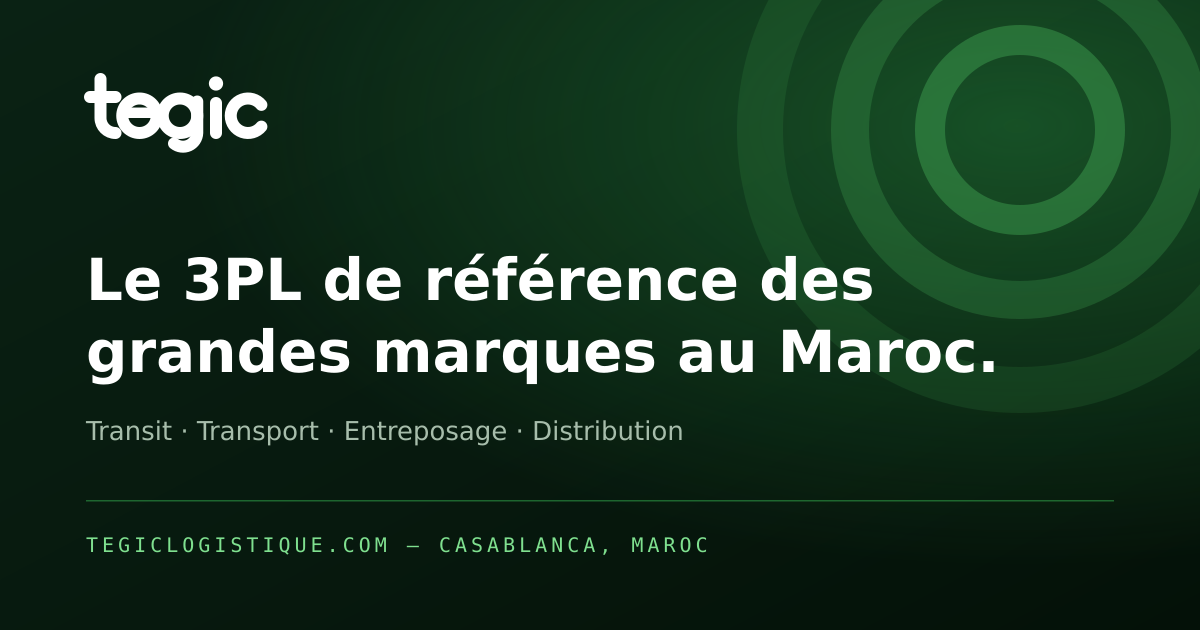
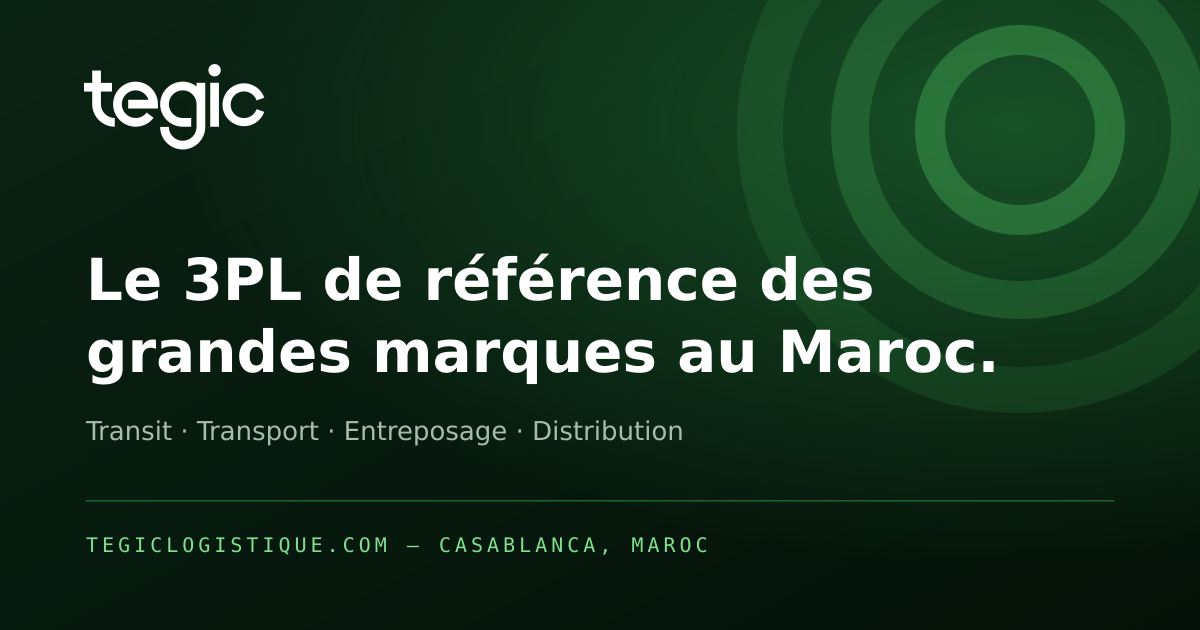
Wordmark officiel Tegic partout (tracés vectoriels de la charte)
La recréation approximative est remplacée par les lettres exactes du
logo, extraites du PDF de charte (pastille tegic) :

- Logo.tsx : TegicWordmark reconstruit sur les 6 tracés officiels,
  remplissage currentColor (blanc sur sombre, encre sur clair)
- Filigrane géant du footer : mêmes tracés officiels
- Images Open Graph régénérées avec le wordmark officiel
- Header, footer, admin : mis à jour automatiquement via le composant

Claude-Session: https://claude.ai/code/session_01WedrAyMvV1yYKE62TZyWZr

Changed region(s): [[0.0617, 0.0905, 0.2467, 0.2413]]

diff --git a/src/components/Logo.tsx b/src/components/Logo.tsx
@@ -1,9 +1,7 @@
 /**
- * Wordmark "tegic" — recréation vectorielle fidèle du logo fourni
- * (bas de casse géométrique, terminaisons rondes) pour un rendu net à
- * toutes les tailles. Pour utiliser le fichier officiel de la charte,
- * déposer `public/brand/tegic-logo-white.svg` et remplacer le <svg>
- * ci-dessous par une balise <img> — un seul composant à modifier.
+ * Wordmark « tegic » — tracés vectoriels OFFICIELS, extraits de la
+ * charte (TEGIC_PICTO.pdf). Remplissage via currentColor : la couleur
+ * suit le contexte (blanc sur sombre, encre sur clair).
  */
 export function TegicWordmark({
   height = 30,
@@ -14,30 +12,19 @@ export function TegicWordmark({
 }) {
   return (
     <svg
-      viewBox="0 0 250 112"
+      viewBox="221.5 555.7 151.2 72.3"
       height={height}
       className={className}
       role="img"
       aria-label="tegic"
-      fill="none"
-      stroke="currentColor"
-      strokeWidth="16"
-      strokeLinecap="round"
+      fill="currentColor"
     >
-      {/* t */}
-      <path d="M22 12 V64 a20 20 0 0 0 20 20" />
-      <path d="M8 36 H42" />
-      {/* e */}
-      <circle cx="74" cy="61" r="23" />
-      <path d="M52 57 H95" strokeWidth="14" />
-      {/* g */}
-      <circle cx="128" cy="61" r="23" />
-      <path d="M151 42 V84 a19 19 0 0 1 -31 14" />
-      {/* i */}
-      <path d="M176 44 V84" />
-      <circle cx="176" cy="18" r="9.5" fill="currentColor" stroke="none" />
-      {/* c */}
-      <path d="M236.5 46.5 a23 23 0 1 0 0 29" />
+      <path d="M 236.175781 589.675781 L 236.175781 579.164062 L 245.371094 579.164062 L 245.371094 571.914062 L 236.175781 571.914062 L 236.175781 561.671875 L 228.925781 561.671875 L 228.925781 571.914062 L 222.082031 571.914062 L 222.082031 579.164062 L 228.925781 579.164062 L 228.925781 589.675781 C 228.925781 600.039062 237.355469 608.464844 247.714844 608.464844 L 247.714844 601.21875 C 241.351562 601.21875 236.175781 596.039062 236.175781 589.675781" />
+      <path d="M 258.894531 593.304688 L 283.683594 593.304688 L 283.683594 589.679688 C 283.683594 579.398438 275.378906 571.023438 265.121094 570.898438 L 265.121094 570.890625 C 265.082031 570.890625 265.046875 570.894531 265.007812 570.894531 C 264.96875 570.894531 264.933594 570.890625 264.894531 570.890625 L 264.894531 570.898438 C 254.636719 571.023438 246.332031 579.398438 246.332031 589.679688 C 246.332031 600.042969 254.757812 608.46875 265.121094 608.46875 C 271.027344 608.46875 276.472656 605.777344 280.058594 601.078125 L 274.296875 596.679688 C 272.09375 599.566406 268.746094 601.222656 265.121094 601.222656 C 258.757812 601.222656 253.578125 596.042969 253.578125 589.679688 L 253.582031 589.679688 C 253.582031 583.351562 258.703125 578.199219 265.019531 578.144531 C 270.0625 578.199219 274.339844 581.503906 275.851562 586.058594 L 258.894531 586.058594 Z M 258.894531 593.304688" />
+      <path d="M 323.121094 571.851562 L 323.121094 608.648438 C 323.121094 619.007812 314.691406 627.4375 304.332031 627.4375 C 293.972656 627.4375 285.542969 619.007812 285.542969 608.648438 L 292.789062 608.648438 C 292.789062 615.011719 297.964844 620.191406 304.332031 620.191406 C 310.695312 620.191406 315.871094 615.011719 315.871094 608.648438 L 315.871094 589.683594 C 315.871094 583.320312 310.695312 578.140625 304.332031 578.140625 C 297.964844 578.140625 292.789062 583.320312 292.789062 589.683594 C 292.789062 596.042969 297.964844 601.21875 304.328125 601.21875 L 311.402344 601.21875 L 311.402344 608.472656 L 304.328125 608.472656 C 293.96875 608.472656 285.542969 600.042969 285.542969 589.683594 C 285.542969 579.320312 293.972656 570.894531 304.332031 570.894531 C 308.675781 570.894531 312.683594 572.378906 315.871094 574.867188 L 315.871094 571.851562 Z M 323.121094 571.851562" />
+      <path d="M 334.539062 608.488281 L 327.289062 608.488281 L 327.289062 571.851562 L 334.539062 571.851562 Z M 334.539062 608.488281" />
+      <path d="M 355.410156 608.042969 C 348.082031 608.042969 341.191406 603.5 338.574219 596.214844 C 336.960938 591.722656 337.191406 586.871094 339.226562 582.550781 C 341.261719 578.234375 344.855469 574.964844 349.347656 573.351562 C 353.839844 571.734375 358.695312 571.96875 363.011719 574.003906 C 367.332031 576.039062 370.597656 579.632812 372.214844 584.125 L 372.273438 584.292969 L 365.914062 586.574219 L 365.855469 586.410156 C 364.851562 583.617188 362.820312 581.378906 360.132812 580.113281 C 357.445312 578.847656 354.429688 578.703125 351.632812 579.707031 C 345.867188 581.78125 342.859375 588.160156 344.933594 593.929688 C 345.9375 596.726562 347.96875 598.960938 350.65625 600.226562 C 353.34375 601.492188 356.359375 601.636719 359.15625 600.632812 C 362.320312 599.496094 364.777344 597.015625 365.890625 593.835938 L 372.265625 596.070312 C 370.476562 601.179688 366.53125 605.160156 361.441406 606.988281 C 359.449219 607.707031 357.414062 608.042969 355.410156 608.042969" />
+      <path d="M 336.074219 561.375 C 336.074219 564.226562 333.765625 566.539062 330.914062 566.539062 C 328.0625 566.539062 325.75 564.226562 325.75 561.375 C 325.75 558.523438 328.0625 556.214844 330.914062 556.214844 C 333.765625 556.214844 336.074219 558.523438 336.074219 561.375" />
     </svg>
   );
 }
@@ -68,3 +55,7 @@ export function LogoLockup({
     </span>
   );
 }
+
+/** Tracés bruts du wordmark (usage filigrane / OG). */
+export const TEGIC_WORDMARK_PATHS = ["M 236.175781 589.675781 L 236.175781 579.164062 L 245.371094 579.164062 L 245.371094 571.914062 L 236.175781 571.914062 L 236.175781 561.671875 L 228.925781 561.671875 L 228.925781 571.914062 L 222.082031 571.914062 L 222.082031 579.164062 L 228.925781 579.164062 L 228.925781 589.675781 C 228.925781 600.039062 237.355469 608.464844 247.714844 608.464844 L 247.714844 601.21875 C 241.351562 601.21875 236.175781 596.039062 236.175781 589.675781 ","M 258.894531 593.304688 L 283.683594 593.304688 L 283.683594 589.679688 C 283.683594 579.398438 275.378906 571.023438 265.121094 570.898438 L 265.121094 570.890625 C 265.082031 570.890625 265.046875 570.894531 265.007812 570.894531 C 264.96875 570.894531 264.933594 570.890625 264.894531 570.890625 L 264.894531 570.898438 C 254.636719 571.023438 246.332031 579.398438 246.332031 589.679688 C 246.332031 600.042969 254.757812 608.46875 265.121094 608.46875 C 271.027344 608.46875 276.472656 605.777344 280.058594 601.078125 L 274.296875 596.679688 C 272.09375 599.566406 268.746094 601.222656 265.121094 601.222656 C 258.757812 601.222656 253.578125 596.042969 253.578125 589.679688 L 253.582031 589.679688 C 253.582031 583.351562 258.703125 578.199219 265.019531 578.144531 C 270.0625 578.199219 274.339844 581.503906 275.851562 586.058594 L 258.894531 586.058594 Z M 258.894531 593.304688 ","M 323.121094 571.851562 L 323.121094 608.648438 C 323.121094 619.007812 314.691406 627.4375 304.332031 627.4375 C 293.972656 627.4375 285.542969 619.007812 285.542969 608.648438 L 292.789062 608.648438 C 292.789062 615.011719 297.964844 620.191406 304.332031 620.191406 C 310.695312 620.191406 315.871094 615.011719 315.871094 608.648438 L 315.871094 589.683594 C 315.871094 583.320312 310.695312 578.140625 304.332031 578.140625 C 297.964844 578.140625 292.789062 583.320312 292.789062 589.683594 C 292.789062 596.042969 297.964844 601.21875 304.328125 601.21875 L 311.402344 601.21875 L 311.402344 608.472656 L 304.328125 608.472656 C 293.96875 608.472656 285.542969 600.042969 285.542969 589.683594 C 285.542969 579.320312 293.972656 570.894531 304.332031 570.894531 C 308.675781 570.894531 312.683594 572.378906 315.871094 574.867188 L 315.871094 571.851562 Z M 323.121094 571.851562 ","M 334.539062 608.488281 L 327.289062 608.488281 L 327.289062 571.851562 L 334.539062 571.851562 Z M 334.539062 608.488281 ","M 355.410156 608.042969 C 348.082031 608.042969 341.191406 603.5 338.574219 596.214844 C 336.960938 591.722656 337.191406 586.871094 339.226562 582.550781 C 341.261719 578.234375 344.855469 574.964844 349.347656 573.351562 C 353.839844 571.734375 358.695312 571.96875 363.011719 574.003906 C 367.332031 576.039062 370.597656 579.632812 372.214844 584.125 L 372.273438 584.292969 L 365.914062 586.574219 L 365.855469 586.410156 C 364.851562 583.617188 362.820312 581.378906 360.132812 580.113281 C 357.445312 578.847656 354.429688 578.703125 351.632812 579.707031 C 345.867188 581.78125 342.859375 588.160156 344.933594 593.929688 C 345.9375 596.726562 347.96875 598.960938 350.65625 600.226562 C 353.34375 601.492188 356.359375 601.636719 359.15625 600.632812 C 362.320312 599.496094 364.777344 597.015625 365.890625 593.835938 L 372.265625 596.070312 C 370.476562 601.179688 366.53125 605.160156 361.441406 606.988281 C 359.449219 607.707031 357.414062 608.042969 355.410156 608.042969 ","M 336.074219 561.375 C 336.074219 564.226562 333.765625 566.539062 330.914062 566.539062 C 328.0625 566.539062 325.75 564.226562 325.75 561.375 C 325.75 558.523438 328.0625 556.214844 330.914062 556.214844 C 333.765625 556.214844 336.074219 558.523438 336.074219 561.375 "];
+export const TEGIC_WORDMARK_VIEWBOX = "221.5 555.7 151.2 72.3";

diff --git a/src/components/Footer.tsx b/src/components/Footer.tsx
@@ -1,5 +1,5 @@
 import Link from "next/link";
-import { LogoLockup } from "./Logo";
+import { LogoLockup, TEGIC_WORDMARK_PATHS, TEGIC_WORDMARK_VIEWBOX } from "./Logo";
 import { ROUTES } from "@/lib/routes";
 import { SITE, type Locale } from "@/lib/site";
 import type { Dict } from "@/i18n";
@@ -18,16 +18,10 @@ export function Footer({ locale, dict }: { locale: Locale; dict: Dict }) {
 
   return (
     <footer className="ftr">
-      <svg viewBox="0 0 250 112" className="ftr__watermark" aria-hidden="true" fill="none" stroke="currentColor" strokeWidth="16" strokeLinecap="round">
-        <path d="M22 12 V64 a20 20 0 0 0 20 20" />
-        <path d="M8 36 H42" />
-        <circle cx="74" cy="61" r="23" />
-        <path d="M52 57 H95" strokeWidth="14" />
-        <circle cx="128" cy="61" r="23" />
-        <path d="M151 42 V84 a19 19 0 0 1 -31 14" />
-        <path d="M176 44 V84" />
-        <circle cx="176" cy="18" r="9.5" fill="currentColor" stroke="none" />
-        <path d="M236.5 46.5 a23 23 0 1 0 0 29" />
+      <svg viewBox={TEGIC_WORDMARK_VIEWBOX} className="ftr__watermark" aria-hidden="true" fill="currentColor">
+        {TEGIC_WORDMARK_PATHS.map((d, i) => (
+          <path key={i} d={d} />
+        ))}
       </svg>
       <div className="container">
         <div className="ftr__grid">